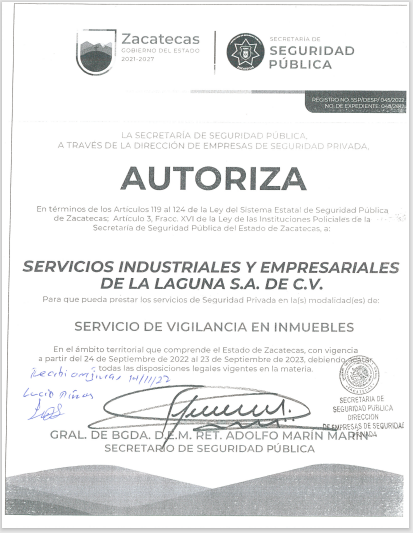
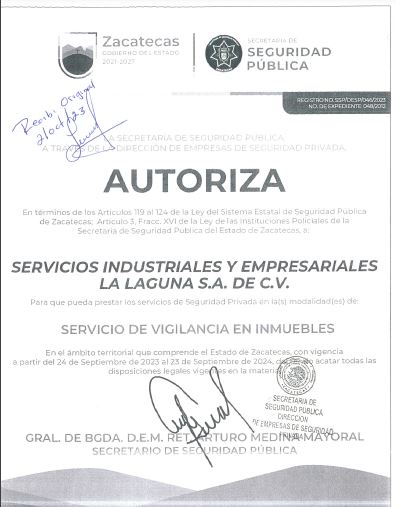
cambio numero 7375

diff --git a/index.html b/index.html
@@ -864,17 +864,17 @@ table tbody tr:hover td:last-child {
 				<td><img src="files/52.jpg" style: width="100px"; height="160px"></td>
 			</tr>
 			
-			<!--<tr>
+			<tr>
 				<td><img src="imagenes/A58.jpg" style: width="100px"; height="100px"></td>
 				<td>SERVICIOS INDUSTRIALES Y EMPRESARIALES LA LAGUNA S.A. DE C.V.</td>
-				<td>SSP/DESP/045/2022</td>
+				<td>SSP/DESP/046/2023</td>
 				<td>SERVICIO DE VIGILANCIA EN INMUEBLES</td>
 				<td>CALLE BATALLON DE SAN PATRICIO, #111, PISO 32, OFICINA 1, COLONIA DEL VALLE ORIENTE, C.P. 66260, SAN PEDRO GARZA GARCIA, NUEVO LEON.</td>
 				<td>EL CHIQUE, No. 9, FRACC. LA COMARCA, C.P. 98658, CIENGUITAS, ZACATECAS.</td>
 				<td>871 711 0633</td>
 				<td>AUTORIZACIONES@GPOSANTINAR.COM</td>
 				<td><img src="files/58.jpg" style: width="100px"; height="160px"></td>
-			</tr>-->
+			</tr>
 			<tr>
 				<td><img src="imagenes/A59.jpg" style: width="100px"; height="100px"></td>
 				<td>SERVICIOS PAN AMERICANO DE PROTECCION S.A.D E C.V.</td>
